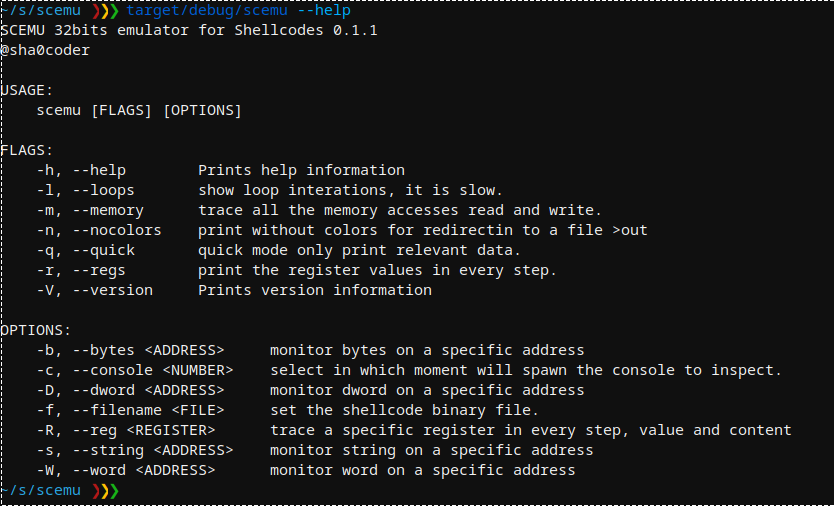
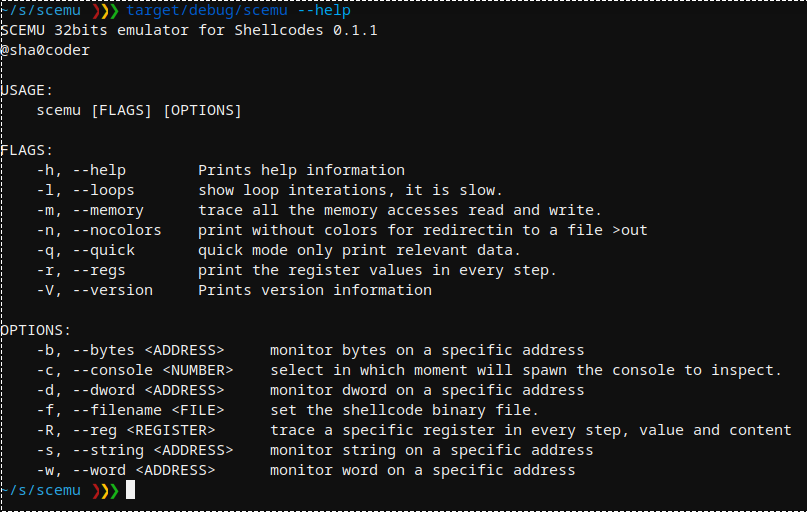
usage pic

diff --git a/src/main.rs b/src/main.rs
@@ -69,13 +69,13 @@ fn main() {
                         .value_name("ADDRESS")
                         .takes_value(true))
                     .arg(Arg::with_name("dword")
-                        .short("D")
+                        .short("d")
                         .long("dword")
                         .help("monitor dword on a specific address")
                         .value_name("ADDRESS")
                         .takes_value(true))
                     .arg(Arg::with_name("word")
-                        .short("W")
+                        .short("w")
                         .long("word")
                         .help("monitor word on a specific address")
                         .value_name("ADDRESS")
@@ -83,12 +83,6 @@ fn main() {
                     .get_matches();
 
 
-    // -n     no colors mode to log
-    // -s     trace string on mem
-    // D W B  trace  dword/word/byte on mem
-    // -b   bytes on mem
-
-    
     if !matches.is_present("filename") {
         println!("the filename is mandatory, try -f <FILENAME> or --help");
     }
